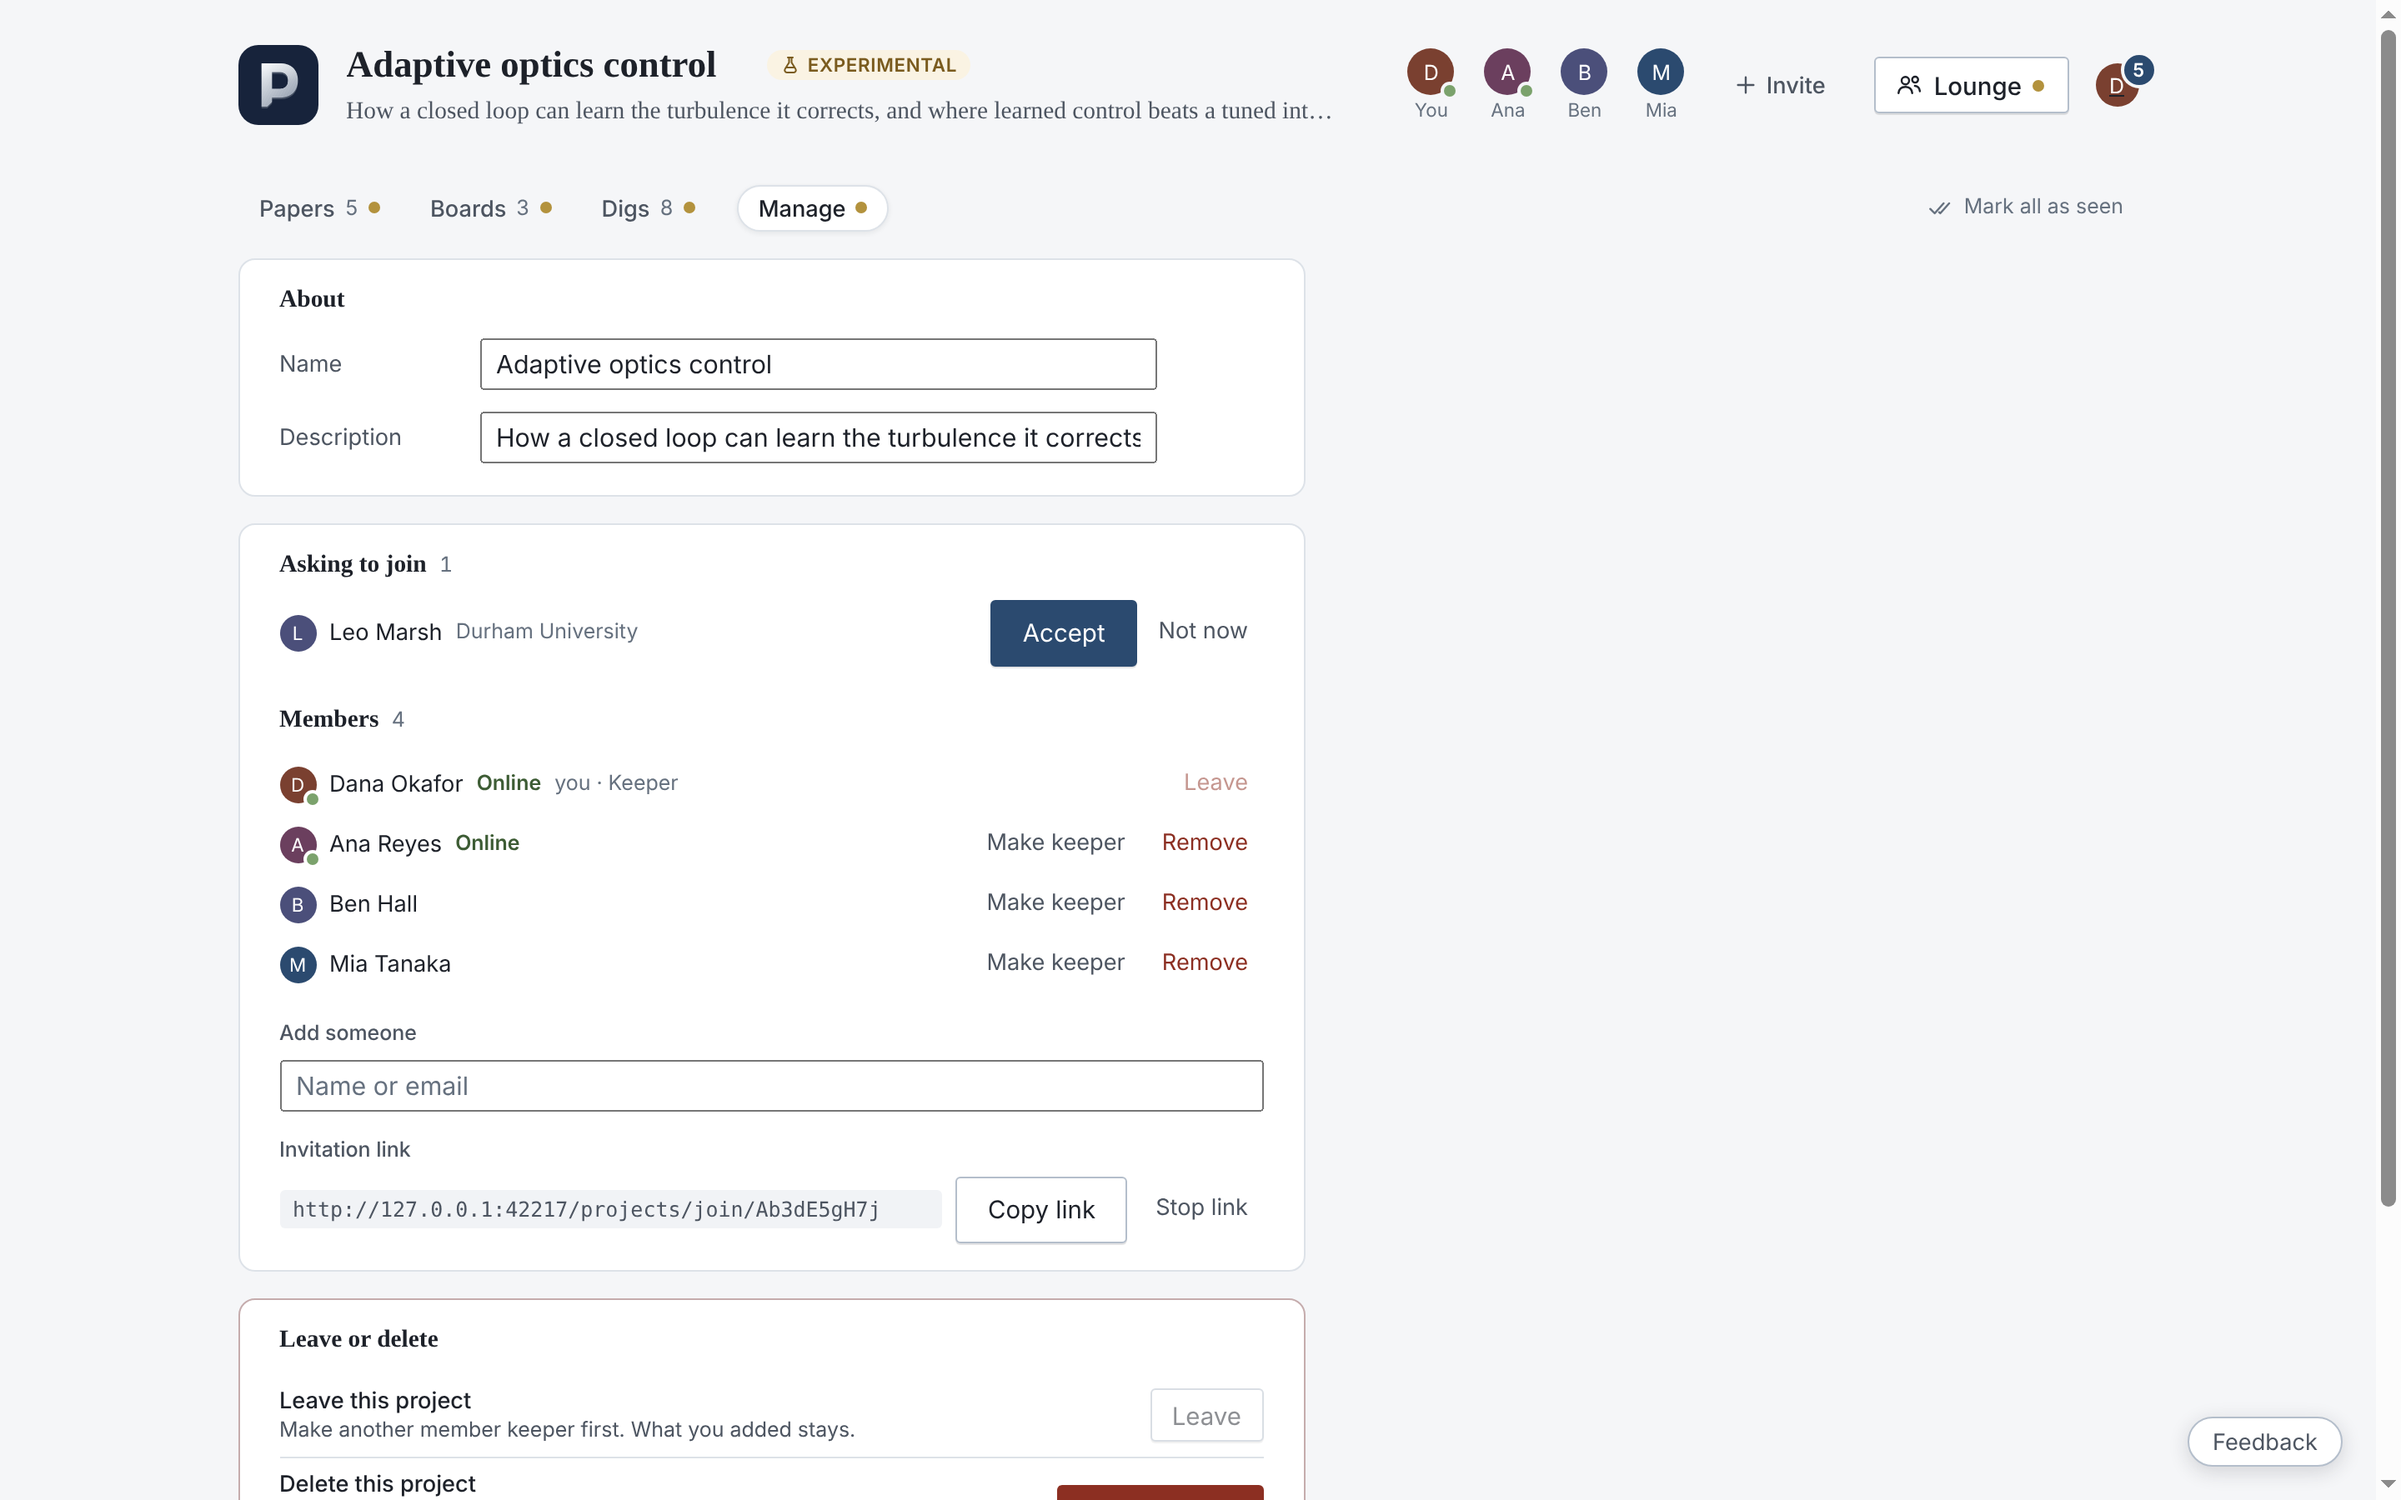
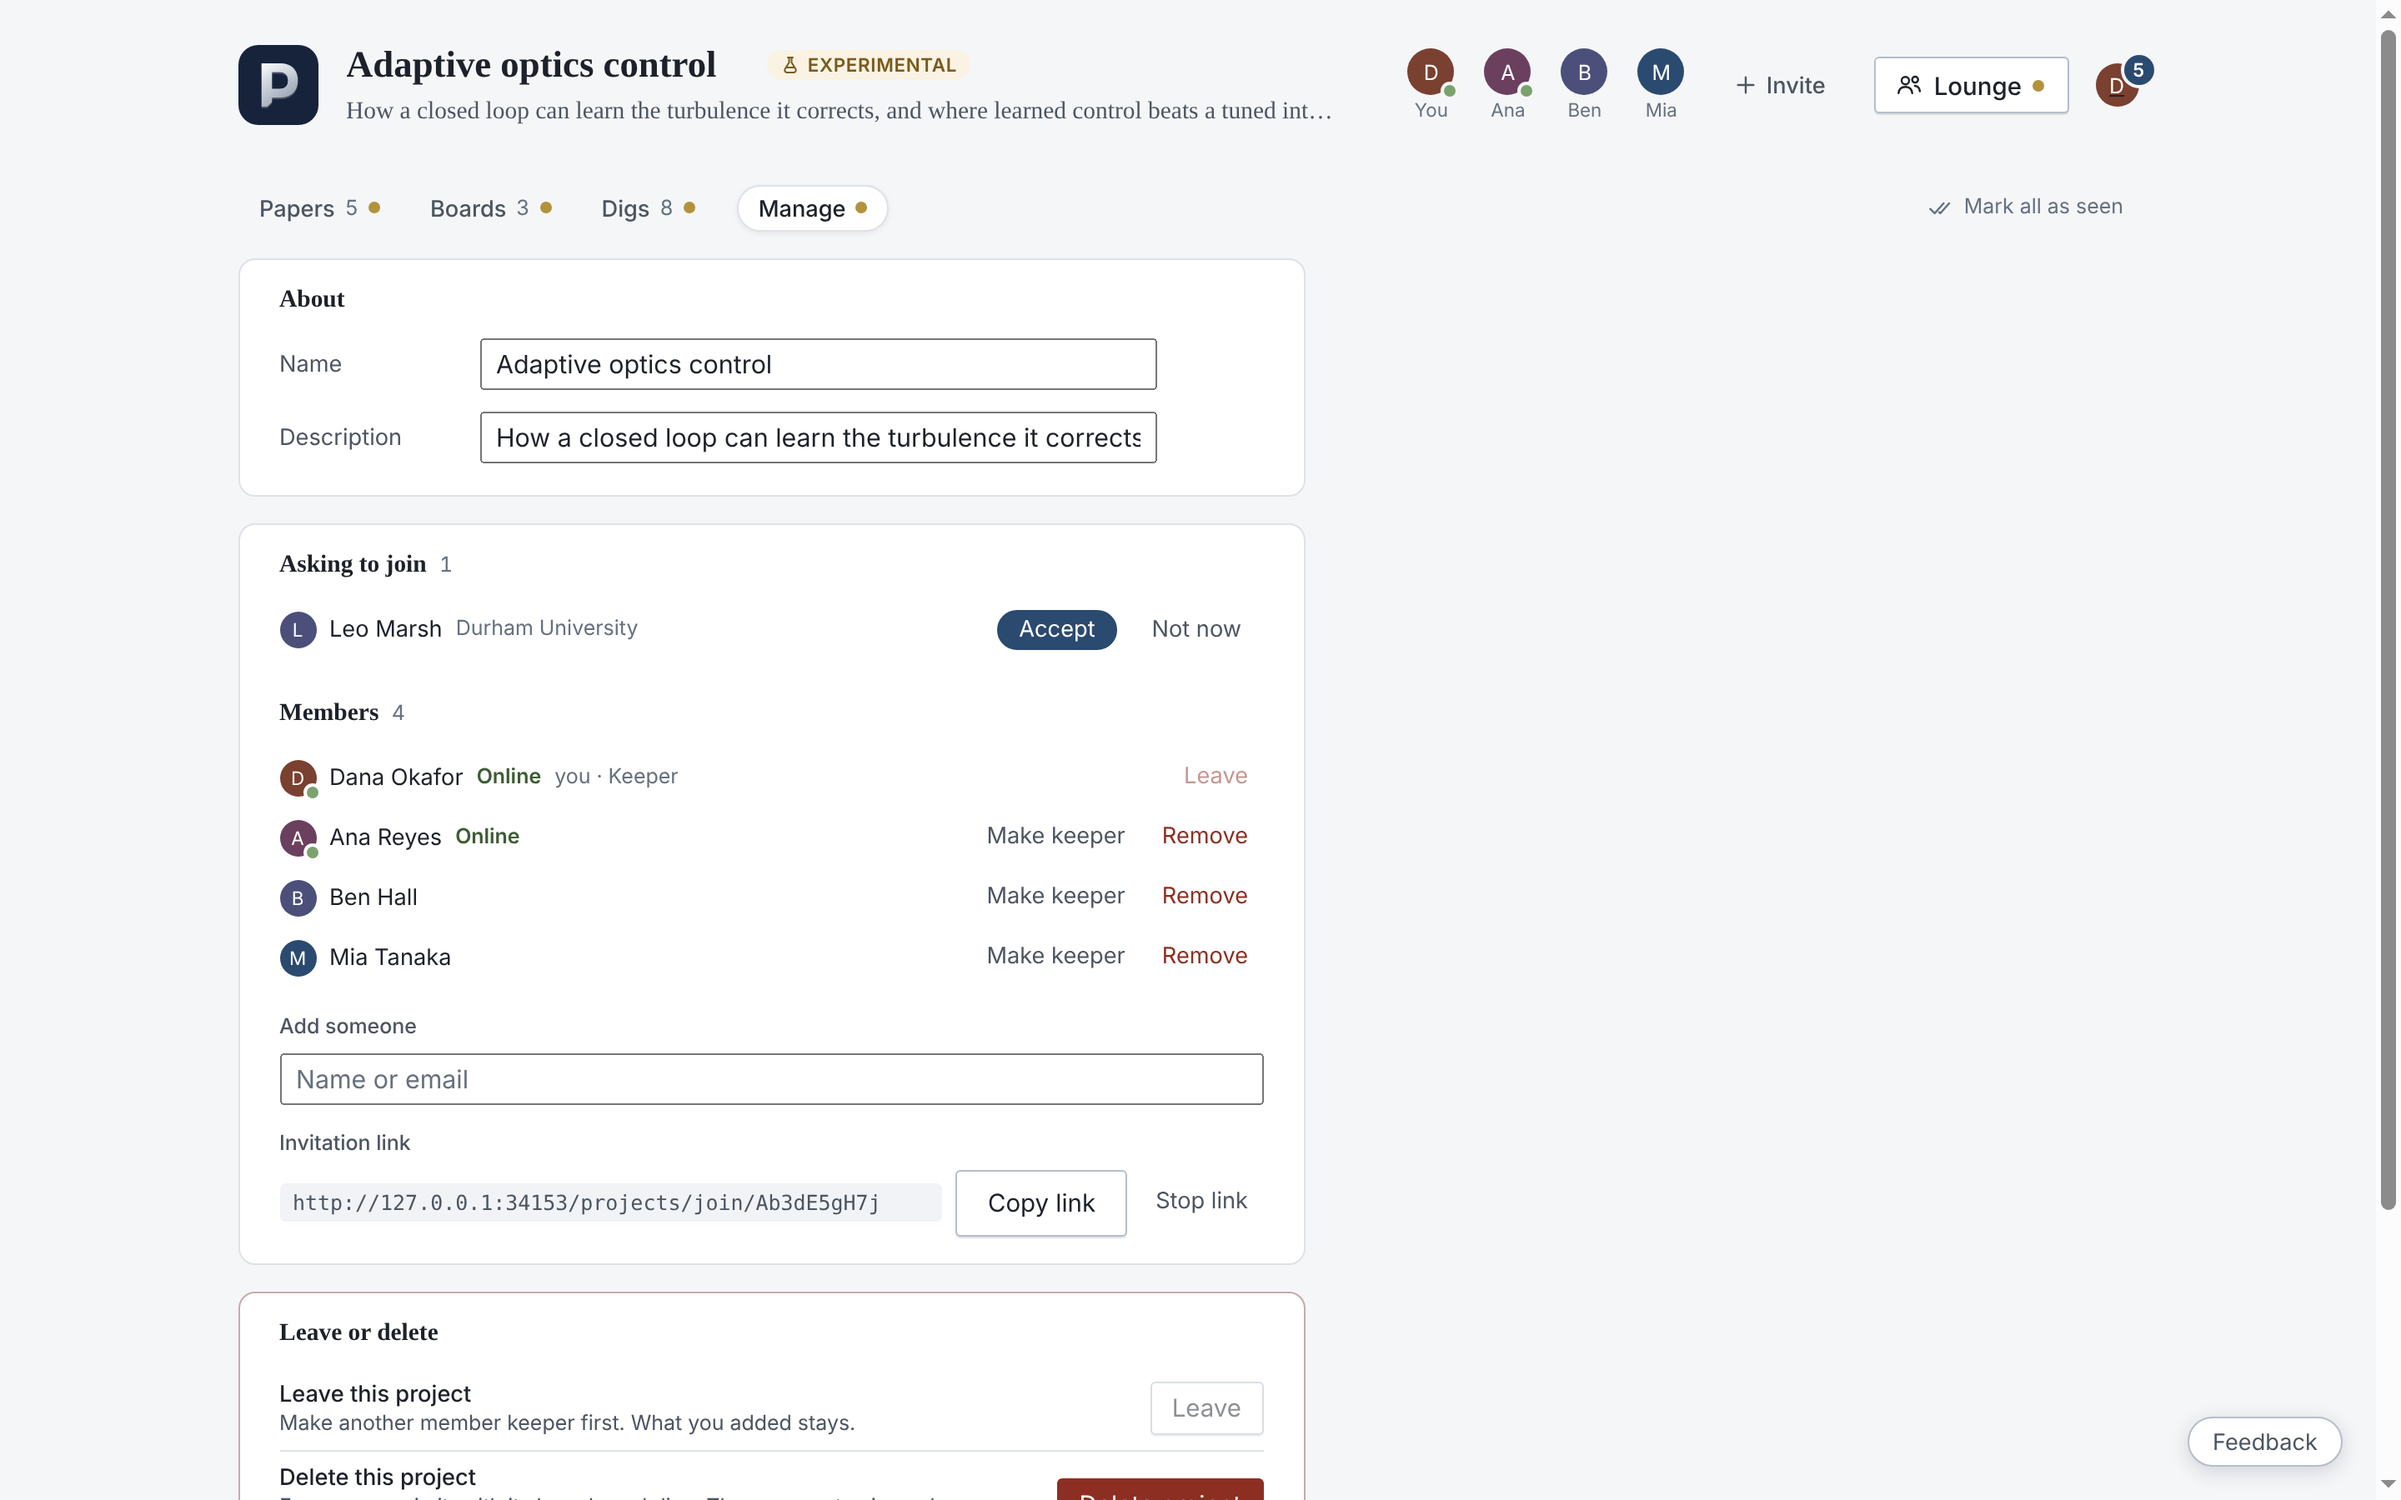
Give Accept and Not now in Manage the Inbox's buttons
The keeper's answer to an ask to join was a large square button in
Manage and a small pill in the Inbox. Both are now the same pill pair.

Claude-Session: https://claude.ai/code/session_01PQZzMUaE1PLVbxdZ4FTiy2

diff --git a/frontend/src/components/ProjectPage.jsx b/frontend/src/components/ProjectPage.jsx
@@ -513,9 +513,10 @@ function Asks({ project, act }) {
             <Face user={user} />
             <a className="project-person-name" href={appPath(`/u/${user.uuid}`)}>{user.display_name}</a>
             {user.affiliation && <span className="project-person-role">{user.affiliation}</span>}
-            <span className="project-person-actions">
-              <button type="button" className="primary" disabled={answering === user.uuid} onClick={() => answer(user, acceptAsk)}>Accept</button>
-              <button type="button" className="project-quiet" disabled={answering === user.uuid} onClick={() => answer(user, declineAsk)}>Not now</button>
+            {/* The same two buttons as on the ask's line in the Inbox. */}
+            <span className="project-person-actions friend-button">
+              <button type="button" className="primary friend-accept" disabled={answering === user.uuid} onClick={() => answer(user, acceptAsk)}>Accept</button>
+              <button type="button" className="friend-not-now" disabled={answering === user.uuid} onClick={() => answer(user, declineAsk)}>Not now</button>
             </span>
           </li>
         ))}

diff --git a/frontend/src/projectManage.test.js b/frontend/src/projectManage.test.js
@@ -47,6 +47,9 @@ test('a keeper answers an ask to join in Manage and in the Inbox', () => {
   const asks = page.slice(page.indexOf('function Asks'), page.indexOf('// The keeper of a project others are in'));
   assert.match(manage, /\{keeper && project\.asks\?\.length > 0 && <Asks project=\{project\} act=\{act\} \/>\}/);
   assert.match(asks, /answer\(user, acceptAsk\)\}>Accept<\/button>/);
+  // The same pill buttons as the ask's line in the Inbox.
+  assert.match(asks, /className="project-person-actions friend-button">\s*<button type="button" className="primary friend-accept"/);
+  assert.match(asks, /className="friend-not-now"/);
   assert.match(asks, /answer\(user, declineAsk\)\}>Not now<\/button>/);
   assert.match(page, /manage: project\.asks\?\.length > 0/);
   assert.match(inbox, /n\.kind === 'project_ask' && n\.actor && \(n\.waiting \|\| n\.answered\)/);

diff --git a/shared/applicationStyles.js b/shared/applicationStyles.js
@@ -5978,7 +5978,7 @@ ${talkStyles}
 
 /* A message in the Inbox that has an answer or a place: said under it. */
 .notification-acts { display: flex; flex-wrap: wrap; align-items: center; gap: var(--space-2); padding: 0 var(--space-3) var(--space-3) calc(var(--space-2) + 14px + var(--space-2)); }
-.notification-acts button { padding: calc(3px + var(--cap-room, 0px)) var(--space-3); border-radius: 999px; font: 400 var(--fs-sm) var(--font-ui); }
+.notification-acts button, .project-asks .friend-button button { padding: calc(3px + var(--cap-room, 0px)) var(--space-3); border-radius: 999px; font: 400 var(--fs-sm) var(--font-ui); }
 .notification-link { color: var(--ink-soft); font: 400 var(--fs-sm) var(--font-ui); }
 .notification-link:hover { color: var(--accent); }
 .notification-answered { color: var(--ink-soft); font: 400 var(--fs-sm) var(--font-ui); }
